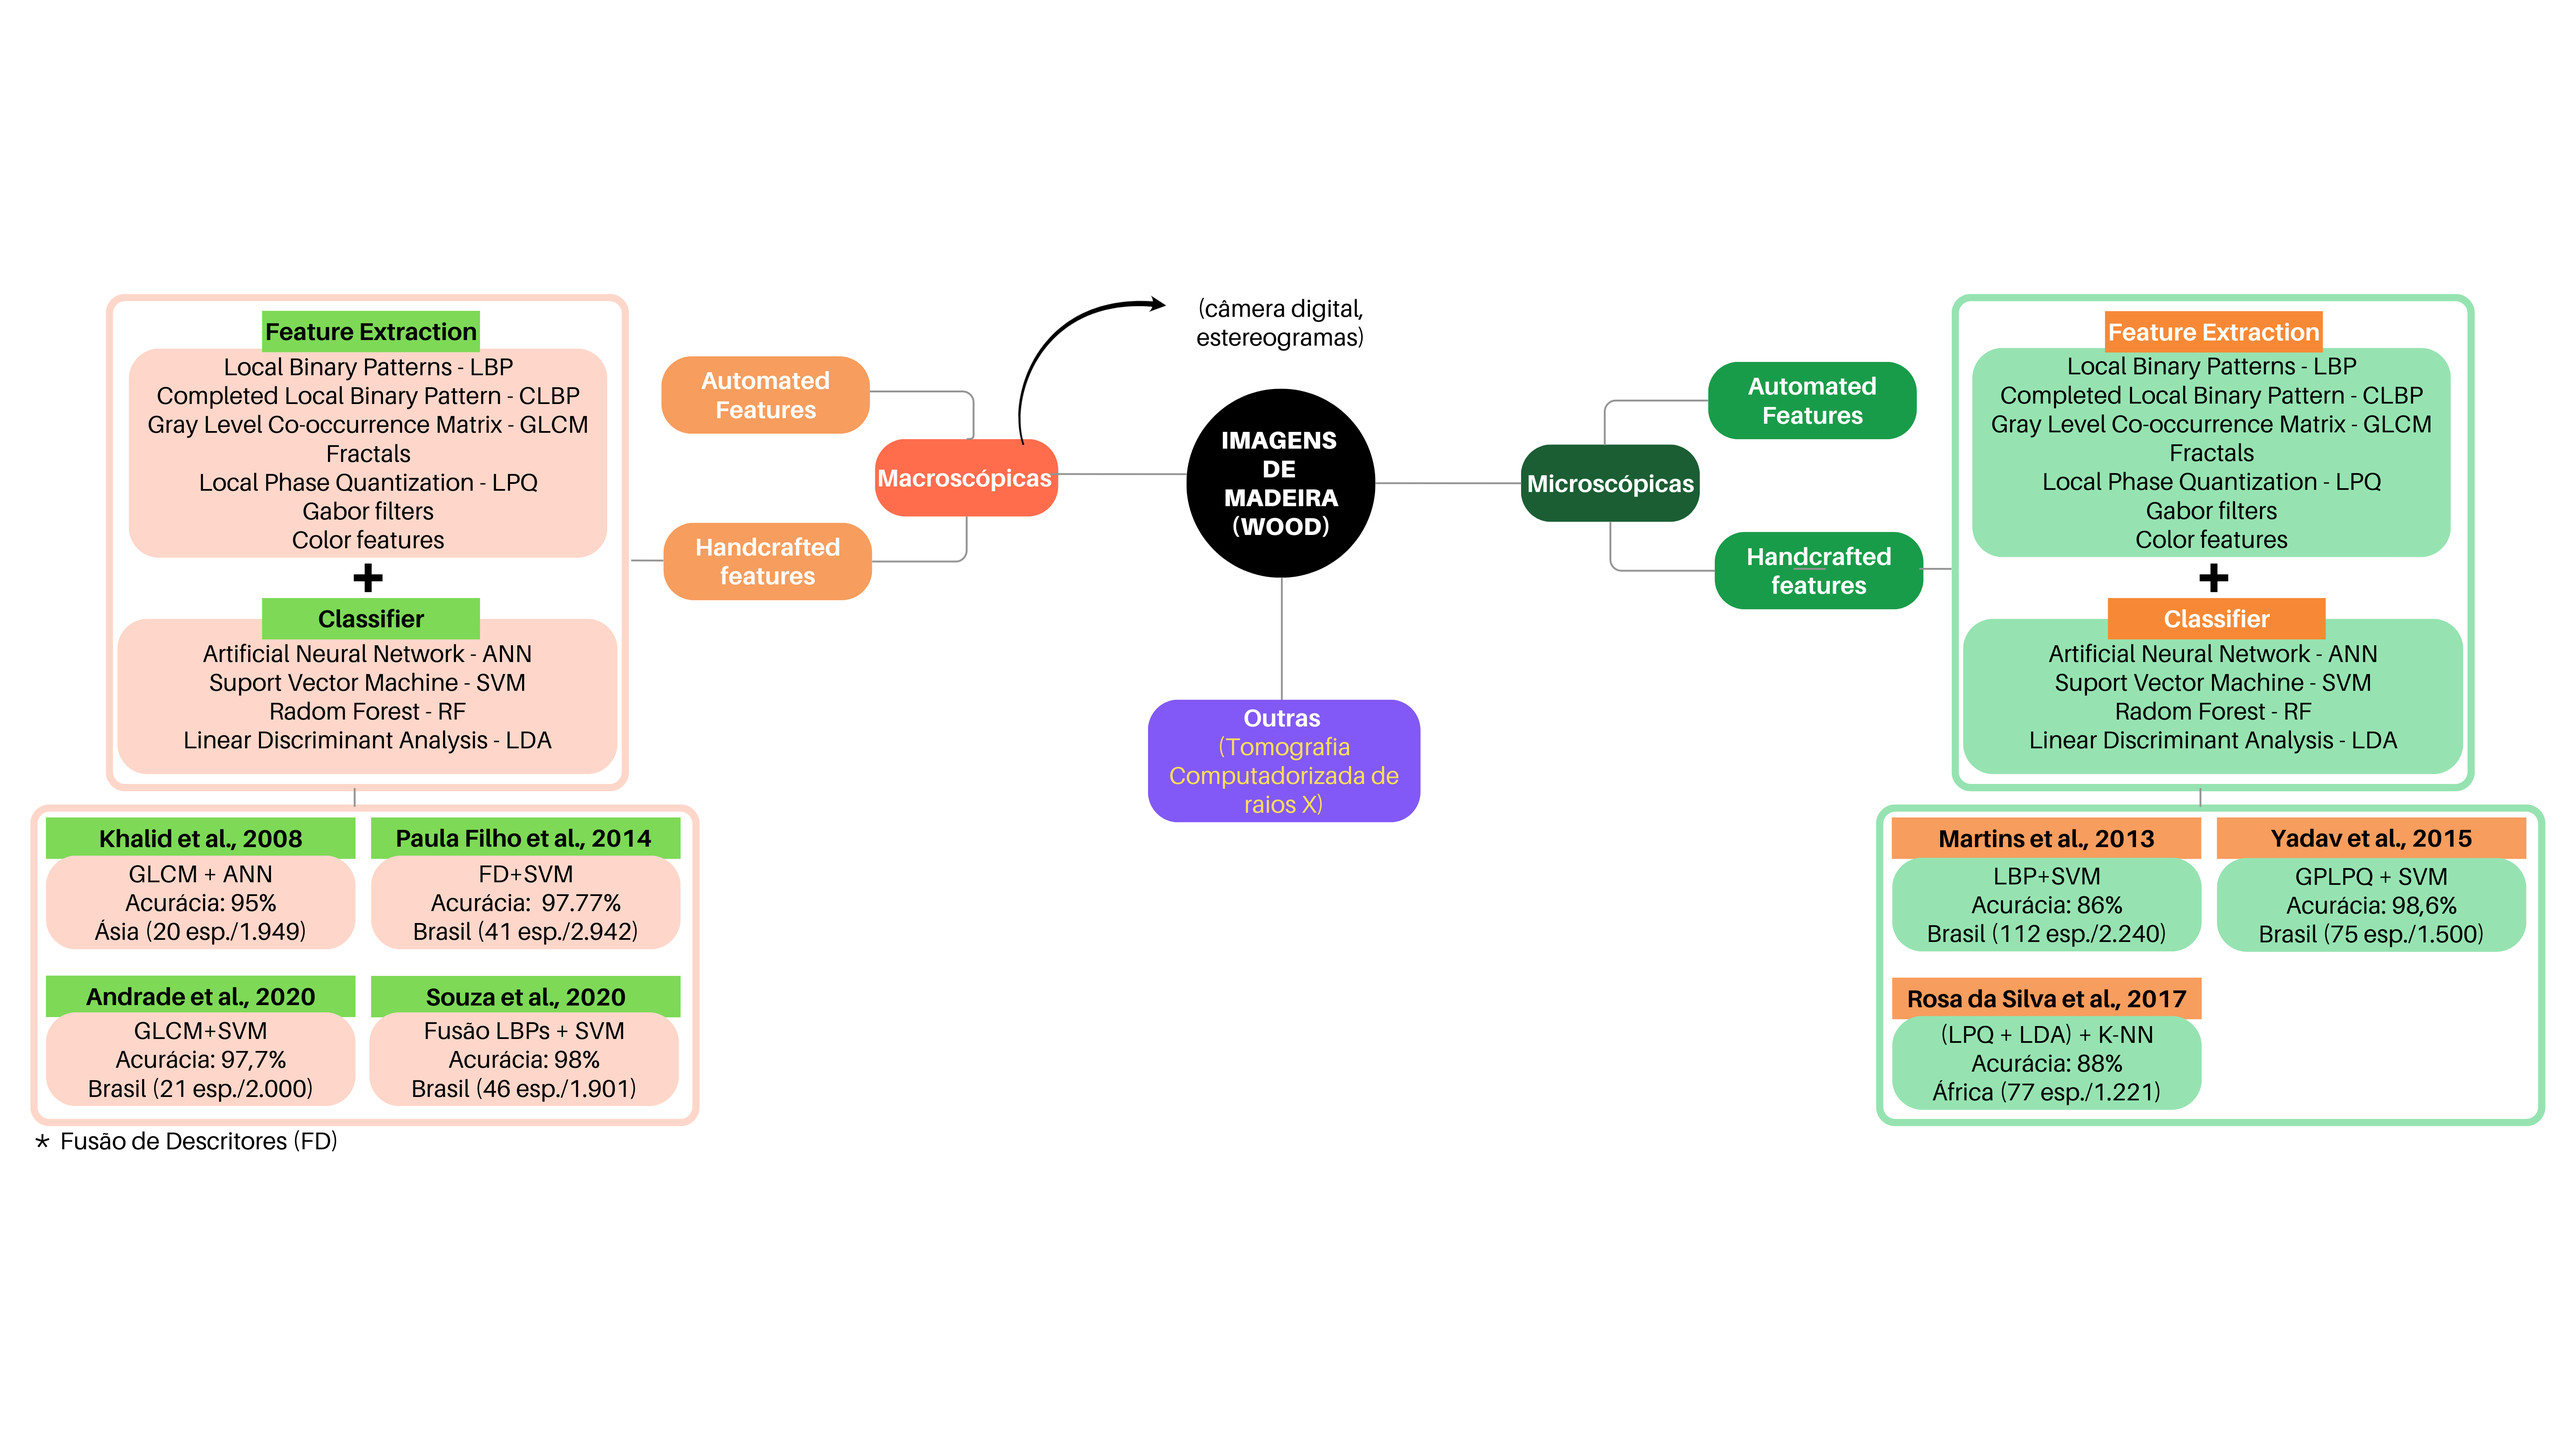
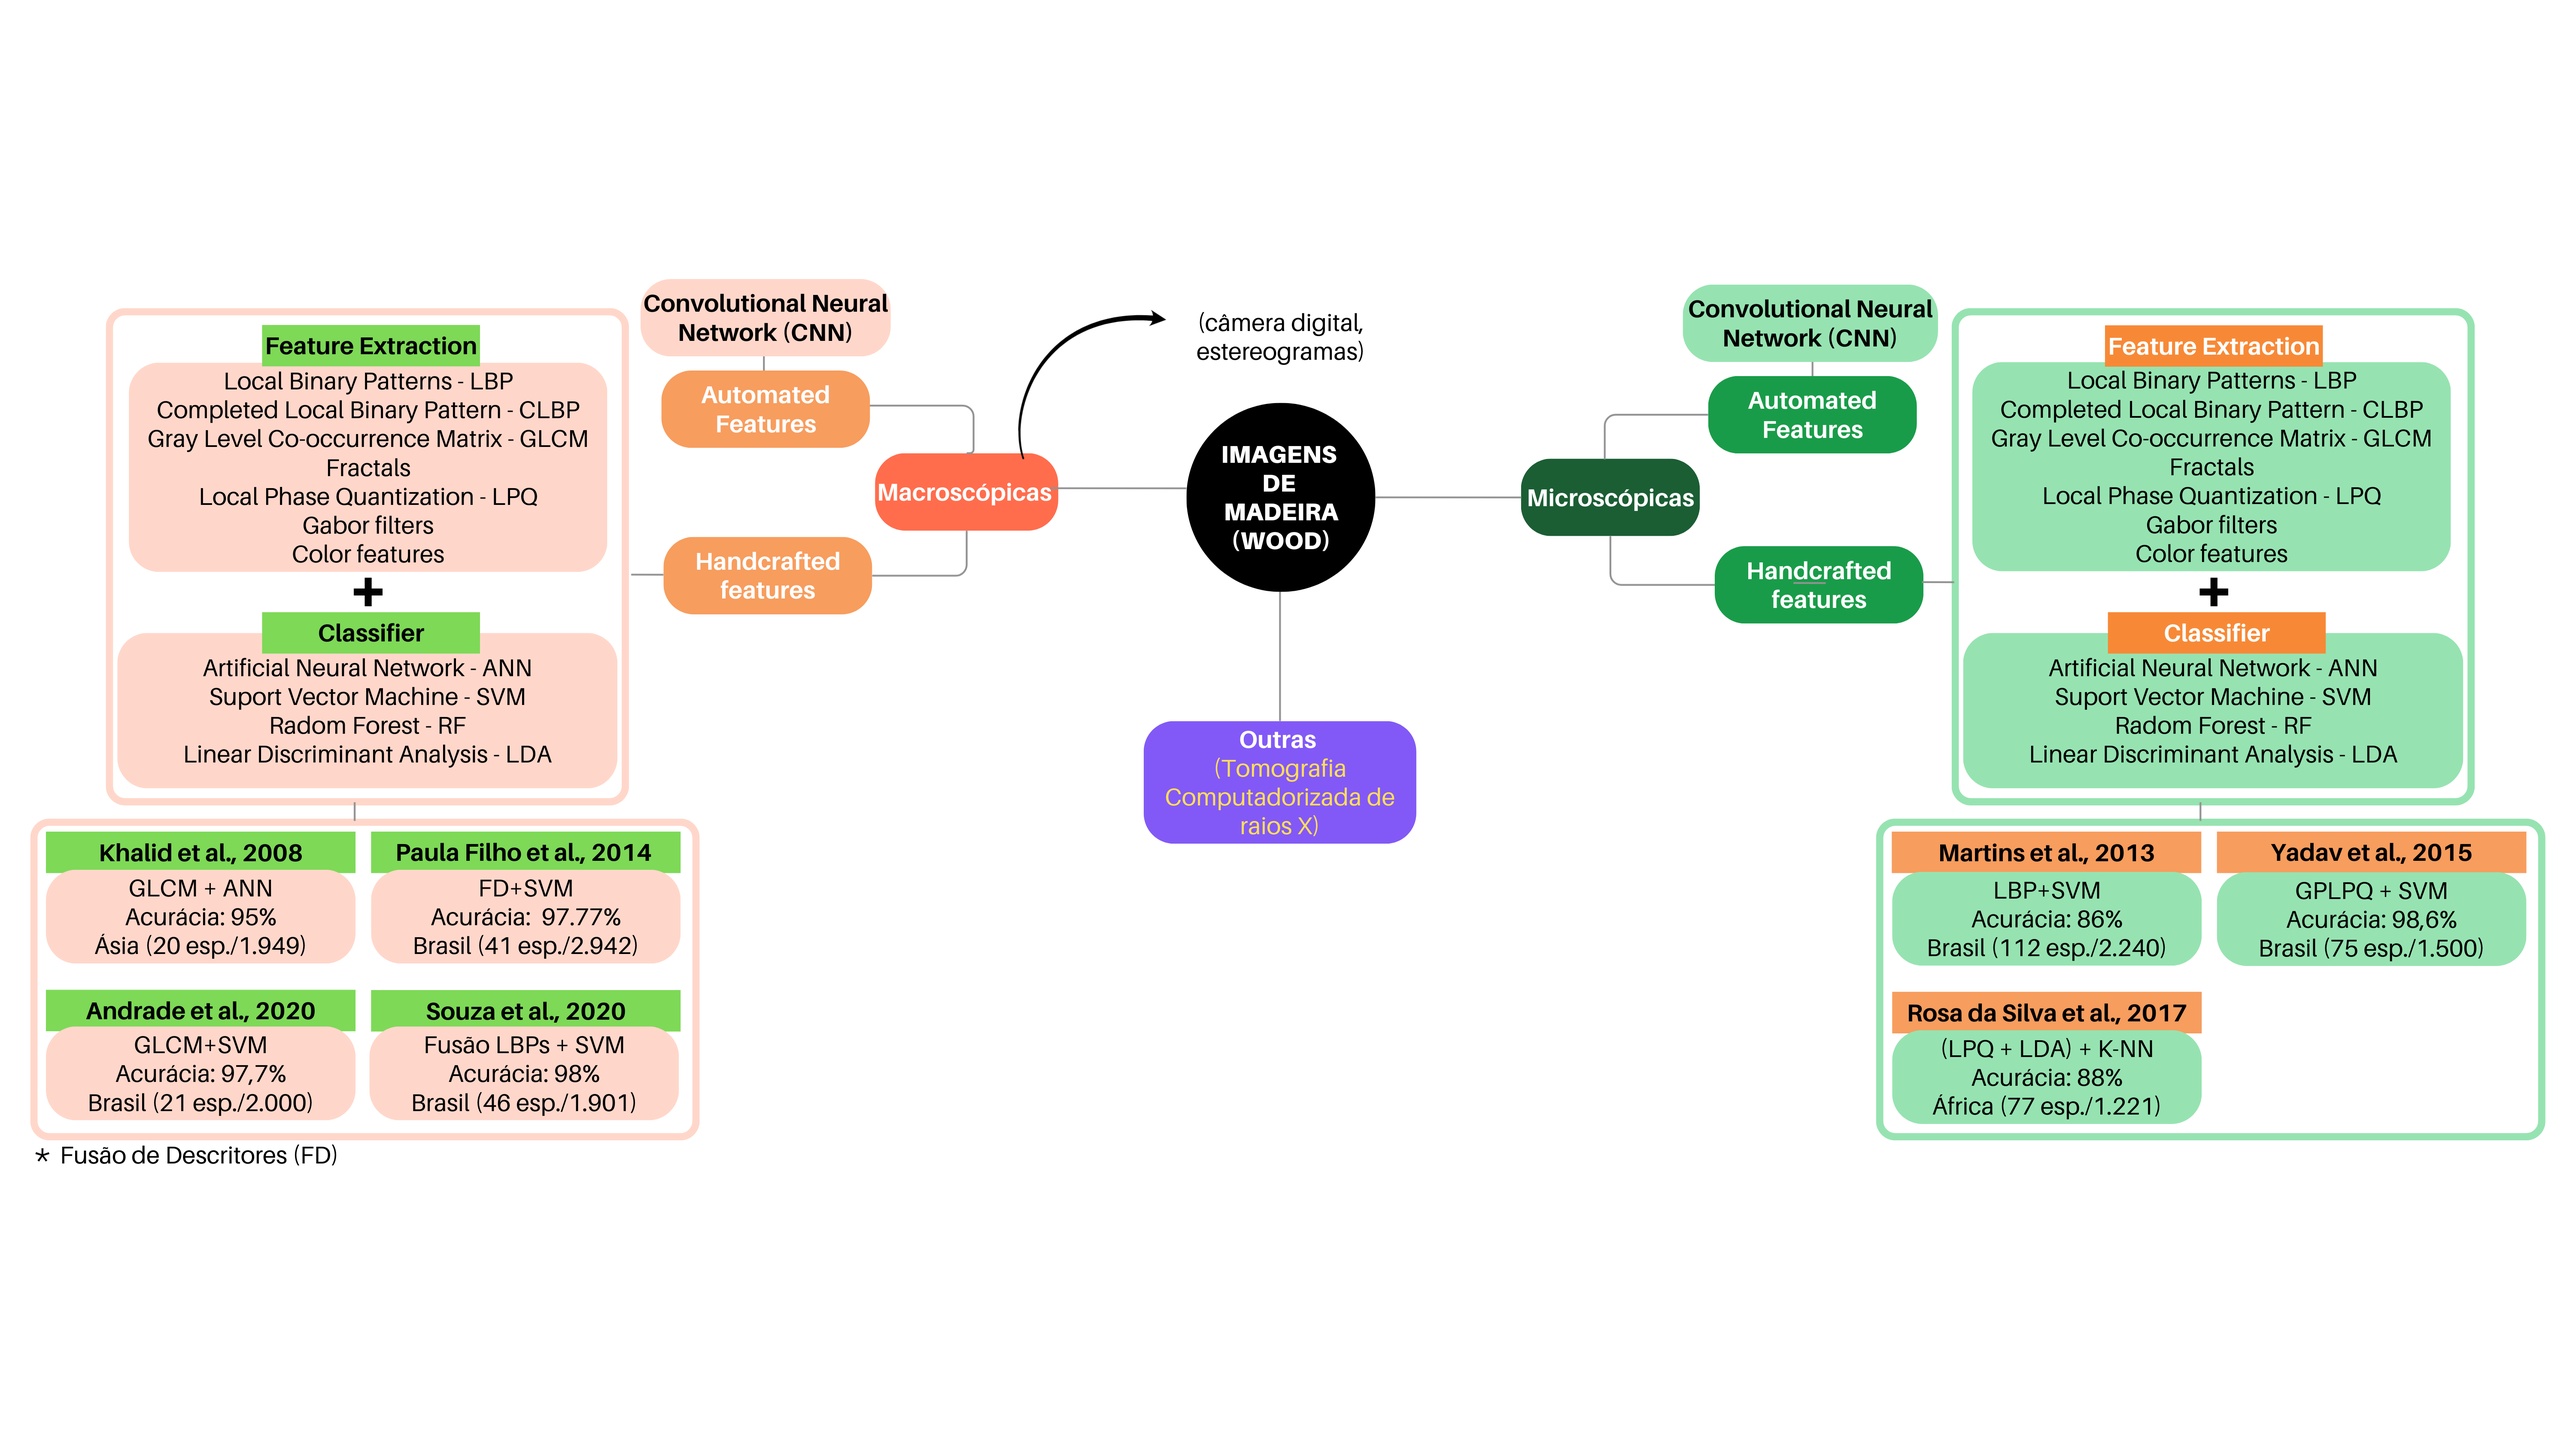
Update

Changed region(s): [[0.0, 0.1867, 0.5298, 0.8089], [0.5922, 0.1867, 0.9973, 0.8089], [0.4363, 0.4667, 0.561, 0.5911]]

diff --git a/Slides/01-CNN-Flora.html b/Slides/01-CNN-Flora.html
@@ -59,7 +59,7 @@ background-size: 130px, 110px, 150px, 130px, cover
 ##### 👨🏻👩🏻👦🏻👦🏻 [@lmftca_ufpa](https://www.instagram.com/lmftca_ufpa/)
 ##### 🌎 [https://www.lmftca.com.br/](https://www.lmftca.com.br/)
 &lt;br&gt;
-##### 1ª versão: 08/setembro/2025 &lt;br&gt; (Atualizado em: 31/agosto/2025) &lt;br&gt; Altamira, Pará
+##### 1ª versão: 08/setembro/2025 &lt;br&gt; (Atualizado em: 01/setembro/2025) &lt;br&gt; Altamira, Pará
 
 ---
 layout: true
@@ -155,7 +155,7 @@ background-size: cover
 
 
 ## **CNNs no Reconhecimento de &lt;br&gt; Espécies de Plantas:**
-### (Madeira, Folha, Casca, Flor, Fruto e Sementes)
+### (Madeira, Folha, Casca, Flor e Sementes)
 
 ---
 layout: true
@@ -163,45 +163,45 @@ background-image:  url(fig/LMFTCA.png), url(fig/cont.png)
 background-position: 99% 94%
 background-size: 100px, cover
 ---
-## Pesquisas com reconhecimento de espécies usando CNN
+## Aplicações de CNN nas Ciênciais Florestais
 
 
-Natally
+
 
 
 ---
-## 🪵 Reconhecendo Espécies: .orange[Imagens de Madeiras]
+## 🪵 .font80[Reconhecimento baseado em .orange[Imagens de Madeiras]...]
 
 &lt;img src="fig/wood1.png" width="80%" style="display: block; margin: auto;" /&gt;
 .font80[**Fonte**: O Autor.]
 
 ---
-## 🪵 Reconhecendo Espécies: .orange[Imagens de Madeiras]
+## 🪵 .font80[Reconhecimento baseado em .orange[Imagens de Madeiras]...]
 
-&lt;img src="fig/wood2.png" width="85%" style="display: block; margin: auto;" /&gt;
+&lt;img src="fig/wood2.png" width="80%" style="display: block; margin: auto;" /&gt;
 .font80[**Fonte**: O Autor.]
 
 ---
-## 🪵 Reconhecendo Espécies: .orange[Imagens de Madeiras]
+## 🪵 .font80[Reconhecimento baseado em .orange[Imagens de Madeiras]...]
 
-&lt;img src="fig/wood3.png" width="85%" style="display: block; margin: auto;" /&gt;
+&lt;img src="fig/wood3.png" width="80%" style="display: block; margin: auto;" /&gt;
 .font80[**Fonte**: O Autor.]
 
 ---
-## 🪵 Reconhecendo Espécies: .orange[Imagens de Madeiras]
+## 🪵 .font80[Reconhecimento baseado em .orange[Imagens de Madeiras]...]
 
-&lt;img src="fig/wood4.png" width="85%" style="display: block; margin: auto;" /&gt;
+&lt;img src="fig/wood4.png" width="80%" style="display: block; margin: auto;" /&gt;
 .font80[**Fonte**: O Autor.]
 
 ---
-## 🪵 Reconhecendo Espécies: .orange[Imagens de Cascas]
+## 🪵 .font80[Reconhecimento baseado em .orange[Imagens de Casca]...]
 
 ---
-## 🍃 Reconhecendo Espécies: .orange[Imagens de Folhas]
+## 🍃 ## 🪵 .font80[Reconhecimento baseado em .orange[Imagens de Folhas]...]
 
 
 ---
-## 🫘 Reconhecendo Espécies: .orange[Imagens de Sementes]
+## 🫘 ## 🪵 .font80[Reconhecimento baseado em .orange[Imagens de Sementes]...]
 
 
 &lt;!-- Slide XX --&gt;
